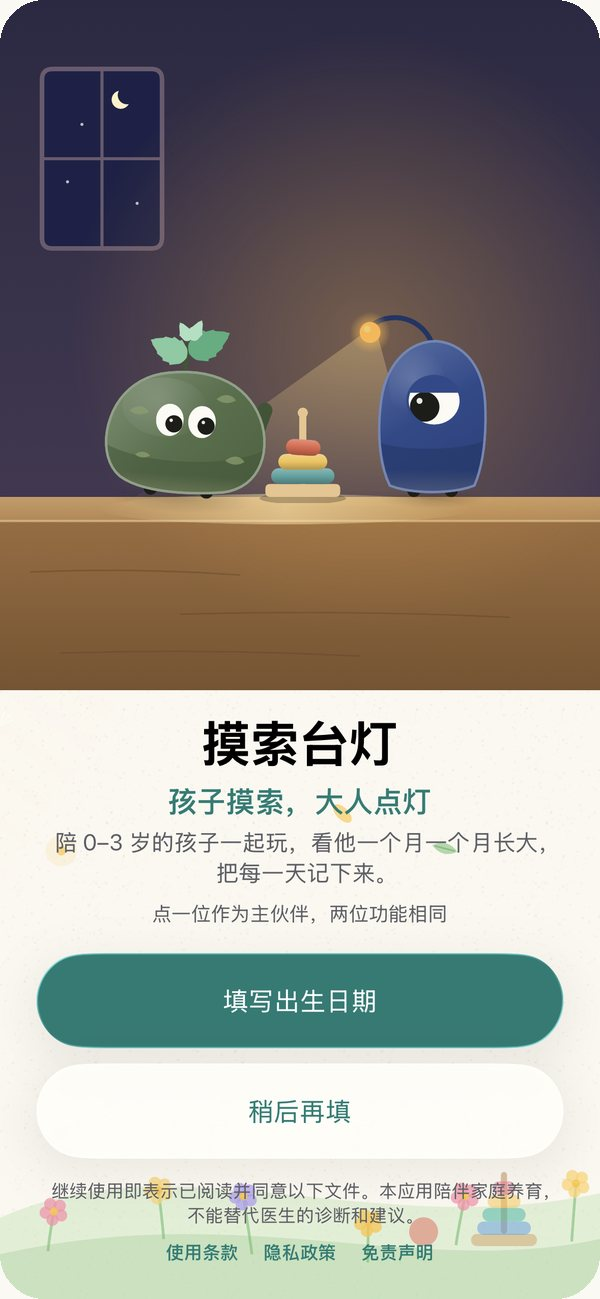
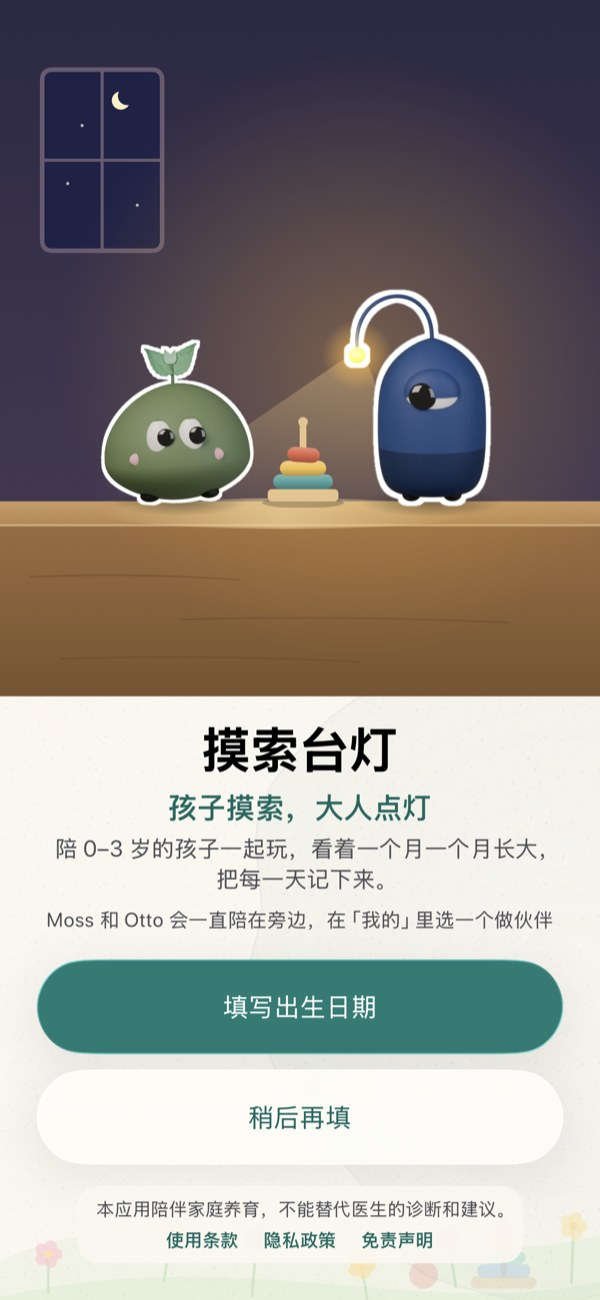
chore: 更新项目介绍页与 iOS 截图、iOS 版本升至 1.0.1、添加云环境配置 (#1)
* chore: update README & iOS screenshots, bump iOS to 1.0.1, add cloud env setup

* docs: add App Store link to README

* docs: refine README to match IP canon, update Android v1.5.0 screenshots, harden setup.sh

diff --git a/README.md b/README.md
@@ -2,9 +2,9 @@
 
 <p align="center"><img src="docs/images/ios/1_opening.jpg" width="300" alt="摸索台灯：Otto 的灯亮起，Moss 在灯下摸索"></p>
 
-<p align="center"><b>孩子摸索，大人点灯。</b><br>陪 0–3 岁的孩子一起玩、一起长大，把每一天记下来。<br>一次买断 · 无广告 · 不需要账号 · 记录只保存在手机里</p>
+<p align="center"><b>孩子摸索，大人点灯。</b><br>陪 0–3 岁的孩子一起玩、一起长大，把每一天记下来。<br>无广告 · 不需要账号 · 记录只保存在手机里</p>
 
-<p align="center"><a href="#ios-版">iOS 版</a> · <a href="#安卓版">安卓版</a> · <a href="docs/IP.md">品牌与 IP</a> · <a href="PRIVACY.md">隐私政策</a> · <a href="TERMS.md">使用条款</a> · <a href="DISCLAIMER.md">免责声明</a></p>
+<p align="center"><a href="https://apps.apple.com/cn/app/%E6%91%B8%E7%B4%A2%E5%8F%B0%E7%81%AF/id6825856138">App Store 下载</a> · <a href="#ios-版">iOS 版</a> · <a href="#安卓版">安卓版</a> · <a href="docs/IP.md">品牌与 IP</a> · <a href="PRIVACY.md">隐私政策</a> · <a href="TERMS.md">使用条款</a> · <a href="DISCLAIMER.md">免责声明</a></p>
 
 ## 这是什么
 
@@ -13,57 +13,57 @@
 | 名字 | 属于谁 | 含义 |
 |---|---|---|
 | 摸索 | 孩子 | 0–3 岁的孩子用手、用嘴、用眼睛摸索世界。Moss 的名字取自「摸索」，头上的新芽一直在长。 |
-| 台灯 | 大人 | 台灯不替人走路，只把桌面照亮。Otto 头顶的金色灯珠就是这盏灯。 |
+| 台灯 | 大人 | 台灯不替人走路，只把桌面照亮，安静地陪在旁边。Otto 头顶的金色灯珠就是这盏灯。 |
 
 在这里做三件事：
 
 | | 在哪里 | 不做什么 |
 |---|---|---|
-| **一起玩** | 本周的架子：这一周可以摸索的几件教具，点开就是一步步的插画、准备什么、什么时候停下 | 不布置任务，不设打卡 |
-| **看他长大** | 0–36 个月，一个月一站，共 37 站；成长滚轮、成长册、WHO 生长曲线 | 不比较，不做发育诊断 |
-| **记下来**（可选） | 亲喂、瓶喂、睡眠、尿布一点即记，计时显示在锁屏上；亲喂时长、瓶喂奶量、睡眠的统计 | 不上传，不需要账号 |
+| **一起玩** | **今天一起玩**：每天推荐一个这个月可以摸索的活动，第 1 步的图画一眼可见，点开就是准备什么、一步步怎么玩、什么时候停下；这周另有两三个活动可换，每周自动更新 | 不布置任务，不设打卡和连续天数 |
+| **看他长大** | 0–36 个月，一个月一站，共 37 站；串珠成长地图、成长册、WHO 生长曲线、接种与儿保 | 不比较孩子，不做发育诊断 |
+| **记下来**（可选） | 亲喂、瓶喂、睡眠、尿布、辅食、体温、第一次等一点即记，计时显示在锁屏与灵动岛上；喂养与睡眠统计 | 不上传任何数据，不需要账号 |
 
 满 36 个月是最后一站，却不是终点：**故事仍在继续。**
 
 ## Moss 与 Otto
 
-两位伙伴不说话，只用眼神和动作陪伴。Moss（摸索）是孩子的好奇心：苔绿色，两只眼睛，头顶薄荷芽，什么都想先摸一下。Otto（台灯）是大人的陪伴：深蓝色，一只大眼睛，头顶一颗金色灯珠，专注又耐心，Moss 摸到哪里，他就把灯往哪里偏一点。家长可以选任意一位作为主伙伴，两位功能完全相同。完整设定见 [docs/IP.md](docs/IP.md)。
+两位伙伴不说话，只用眼神和动作陪伴。Moss（摸索）是孩子的好奇心：哑光软胶质感的苔绿色圆软石，两只眼睛，头顶细茎与对生薄荷叶，什么都要先看一眼、先凑过去。Otto（台灯）是大人的陪伴：深蓝高圆顶，一只大眼睛，头顶一颗金色灯珠，眼皮很重，却从来不灭灯；Moss 摸到哪里，他就把灯往哪里偏一点。家长可以选任意一位作为主伙伴，两位功能完全相同。完整设定见 [docs/IP.md](docs/IP.md)。
 
 ---
 
 ## iOS 版
 
-为 iPhone 原生构建（SwiftUI，iOS 26 及以上，液态玻璃设计语言），目前在 TestFlight 测试，公开测试与 App Store 上架准备中。
+为 iPhone 原生构建（SwiftUI，iOS 26 及以上，液态玻璃导航层、纸面内容与哑光软胶三维插画），**v1.0 已上架 App Store**（一次买断，无广告、无订阅）。[在 App Store 下载](https://apps.apple.com/cn/app/%E6%91%B8%E7%B4%A2%E5%8F%B0%E7%81%AF/id6825856138)。
 
 <p align="center">
   <img src="docs/images/ios/1_opening.jpg" width="31%" alt="首次打开：灯亮起，Moss 在灯下摸索">
-  <img src="docs/images/ios/2_home.jpg" width="31%" alt="本月：月龄与本周的架子">
+  <img src="docs/images/ios/2_home.jpg" width="31%" alt="首页：月龄与今天一起玩">
   <img src="docs/images/ios/3_play.jpg" width="31%" alt="活动：一步步的插画，Moss 与 Otto 在旁边看">
 </p>
 <p align="center">
-  <img src="docs/images/ios/4_story.jpg" width="31%" alt="摸索台灯的故事">
-  <img src="docs/images/ios/5_journal.jpg" width="31%" alt="记录：一天的串珠与时间线">
-  <img src="docs/images/ios/6_night.jpg" width="31%" alt="夜灯：夜里喂奶的计时">
+  <img src="docs/images/ios/4_month.jpg" width="31%" alt="月份：0–36 个月要点、活动与接种儿保">
+  <img src="docs/images/ios/5_journal.jpg" width="31%" alt="记录：贴纸、一天的串珠与时间线">
+  <img src="docs/images/ios/6_night.jpg" width="31%" alt="夜灯：夜里亲喂计时">
 </p>
 
 | 截图 | 说明 |
 |---|---|
 | 首次打开 | 没有文字的开场：Otto 的灯亮起，Moss 在灯下醒来，摸了摸套圈，转头看 Otto。约四秒，只播一次，随时可跳过；开启「减弱动态效果」时静止 |
-| 本月 | 孩子满几个月几天；**本周的架子**是首页的核心：木头矮柜上的托盘、纸签上的名字，每玩一次多一颗金珠；之后是这个月的其他活动、这个月的要点与专题 |
-| 活动 | 开始之前（准备与安全）、一步步的插画、做的时候看什么、什么时候停下；Moss 与 Otto 在每一幅插画里陪着看，做完最后一步时一起笑 |
-| 故事 | 「关于摸索台灯」里讲述名字的含义、能做的三件事，以及 36 个月以后故事仍在继续 |
-| 记录（可选） | 一点即记，时间可精确选择；亲喂左右侧分别计时，可暂停、换边；瓶喂精确到 5 毫升；锁屏实时活动与灵动岛、桌面小组件 |
-| 夜灯 | 晚上自动变成一盏小夜灯：深蓝底、琥珀色光，Otto 的灯珠微亮 |
+| 首页 | 孩子满几个月几天、本月接种与儿保进度，以及核心卡片**今天一起玩**：第 1 步插画一眼可见，支持「换一个」和这周备选活动；卡片边缘的 Moss 与 Otto 连续点按三次可进入「摸索台灯的故事」 |
+| 活动 | 开始之前（准备与安全）、折叠式逐步插画（46 个活动、146 幅步骤图）、做的时候看什么、什么时候停下；做完最后一步自动记一次 |
+| 月份 | 0–36 个月 37 站与蒙氏串珠链成长地图：每月关注与留意、适龄活动、可以留意清单、接种与儿保（已核对 2026 年国家免疫规划）、六个发展领域与成长册 |
+| 记录（可选） | 一点即记，时间可精确到分钟；亲喂左右侧分别计时并自动合并为一顿，支持暂停、换边与撤销；瓶喂精确到 5 毫升；锁屏实时活动、灵动岛、桌面小组件与「第一次」里程碑 |
+| 夜灯 | 晚上自动变成一盏小夜灯：深蓝底、暖琥珀光与柔光数字，Otto 的灯珠微亮，夜间减少动态打扰 |
 
-**隐私**：不联网、不需要账号，不含广告、统计或第三方 SDK。CI 在模拟器测试中记录应用进程的网络活动（`ios_network.txt`），用来核查这一点。
+**隐私与合规**：完全离线、不联网、不需要账号，不含广告、统计或第三方 SDK；所有记录只保存在本机，支持面容 ID 应用锁、导出完整备份与随时撤回同意。CI 在模拟器测试中持续记录应用进程的网络活动（`ios_network.txt`）核查零联网。iOS 版法律文件见 [ios/Docs/](ios/Docs/)，合规对照见 [ios/COMPLIANCE.md](ios/COMPLIANCE.md)。
 
-**开发**：`ios/project.yml`（XcodeGen）；CI `.github/workflows/ios.yml` 运行单元测试、截图测试与无障碍审查，截图发布到 `screens-ios` 分支，并上传 TestFlight。设计说明见 [ios/DESIGN.md](ios/DESIGN.md)，路线图见 [ios/ROADMAP.md](ios/ROADMAP.md)。
+**开发**：`ios/project.yml`（XcodeGen）；CI [`.github/workflows/ios.yml`](.github/workflows/ios.yml) 运行单元测试、截图测试（含 6.9 英寸 App Store 截图产物）、无障碍审查与滚动性能测试，并在合入 `main` 时自动上传 TestFlight。设计说明见 [ios/DESIGN.md](ios/DESIGN.md)，路线图见 [ios/ROADMAP.md](ios/ROADMAP.md)。
 
 ---
 
 ## 安卓版
 
-适用于 Android 8.0 及以上。[下载最新版本](https://github.com/mjuvdeysii/mossling/releases/latest)。
+适用于 Android 8.0 及以上，当前版本 **v1.5.0**。[下载最新版本](https://github.com/mjuvdeysii/mossling/releases/latest)。
 
 <p align="center">
   <img src="docs/images/android/1_welcome.jpg" width="31%" alt="欢迎页">
@@ -78,24 +78,24 @@
 
 | 截图 | 说明 |
 |---|---|
-| 欢迎页 | 孩子摸索，大人点灯；填写出生日期，或先看看 |
-| 本周的架子 | 这一周放上架子的几件教具，以及怎么用这个架子 |
-| 教具 | 蒙台梭利式的家庭教具，按月龄出现 |
-| 手帐（可选） | 亲喂、瓶喂（精确到 5 毫升）、睡眠、尿布等；通知栏计时，可暂停、换边；桌面小组件 |
-| 统计 | 喂养次数、亲喂时长、睡眠与尿布 |
-| 生长曲线 | 世界卫生组织儿童生长标准（2006），百分位带与中位数 |
+| 欢迎页 | 孩子摸索，大人点灯；选择主伙伴 Moss 或 Otto，填写出生日期或先看看 |
+| 本周的架子 | 矮架上一次摆三样，每周自动轮换；可按「还没玩过」和六个发展领域筛选更换 |
+| 教具 | 46 个蒙台梭利式家庭活动与 146 幅分步插画，支持全屏「跟着做」逐步翻页与屏幕常亮 |
+| 手帐（可选） | 亲喂分侧计时、瓶喂（精确到 5 毫升）、睡眠、尿布、体温就医提示与「第一次」里程碑；按类别筛选时间线，支持通知栏计时与桌面小组件 |
+| 统计 | 近 7 天 / 近 30 天喂养次数、瓶喂奶量、亲喂时长、睡眠与尿布趋势 |
+| 生长曲线 | 世界卫生组织儿童生长标准（2006），支持当前阶段与 0–36 月全貌切换，点按曲线查看每次测量与百分位 |
 
-此外还有「今天」（月龄、今天的一个活动）、「成长」（0–36 个月串珠、每月要点、成长地图、专题与搜索）和 46 个家庭活动、146 幅分步插画。
+此外还有「今天」（月龄、照护状态、今日一件事）、「成长」（0–36 个月串珠、成长地图、专题与成长册）以及按发展领域浏览的搜索页。
 
 **隐私**：不需要账号，不收集、不上传任何数据；只在用户主动点「检查更新」时联网。
 
-**开发**：`gradle :app:assembleDebug`（Gradle 8.9、JDK 17、Android SDK 35）。CI `build.yml` 运行单元测试与 Paparazzi 截图（`screens` 分支），`VERSION` 中的版本尚未发布时构建签名 APK 并发布；`emulator.yml` 在模拟器上运行关键路径测试。签名密钥来自 GitHub Secrets，不在仓库中。
+**开发**：`gradle :app:assembleDebug`（Gradle 8.9、JDK 17、Android SDK 35）。CI [`build.yml`](.github/workflows/build.yml) 运行单元测试与 Paparazzi 截图（`screens` 分支），`VERSION` 中的版本尚未发布时构建签名 APK 并发布；[`emulator.yml`](.github/workflows/emulator.yml) 在模拟器上运行关键路径测试。签名密钥来自 GitHub Secrets，不在仓库中。
 
 ---
 
 ## 内容依据
 
-育儿内容整理自世界卫生组织、联合国儿童基金会、国家卫生健康委员会、国家疾病预防控制局、中华预防医学会、美国疾病控制与预防中心、美国儿科学会等机构公开发布的指南与资料，在应用内「内容来源」中逐项标明机构、文件名称、发布日期与核对日期。`app/src/main/assets/content.json` 为两个平台共用的内容；`who_growth.json` 由 `tools/export_who.py` 生成；iOS 插画由 `tools/picturebook.py` 生成，安卓插画由 `tools/illustrate.py` 生成。
+育儿内容整理自世界卫生组织、联合国儿童基金会、国家卫生健康委员会、国家疾病预防控制局、中华预防医学会、美国疾病控制与预防中心、美国儿科学会等机构公开发布的指南与资料，在应用内「内容来源」中逐项标明机构、文件名称、发布日期与核对日期。`app/src/main/assets/content.json` 为两个平台共用的内容；`who_growth.json` 由 `tools/export_who.py` 生成；iOS 三维角色与插画由 `tools/ip3d.py` 与 `tools/scene3d.py` 生成（平面绘本画风由 `tools/picturebook.py` 生成），安卓插画由 `tools/illustrate.py` 生成。
 
 ## 制作
 
@@ -103,4 +103,4 @@
 
 ## 说明
 
-本应用陪伴家庭养育，内容仅供参考，不构成医疗诊断或治疗建议。详见《[使用条款](TERMS.md)》《[隐私政策](PRIVACY.md)》《[免责声明](DISCLAIMER.md)》。
+本应用陪伴家庭养育，内容仅供参考，不构成医疗诊断或治疗建议。详见《[使用条款](TERMS.md)》《[隐私政策](PRIVACY.md)》《[免责声明](DISCLAIMER.md)》（iOS 版最新文件见 [ios/Docs/](ios/Docs/)）。
